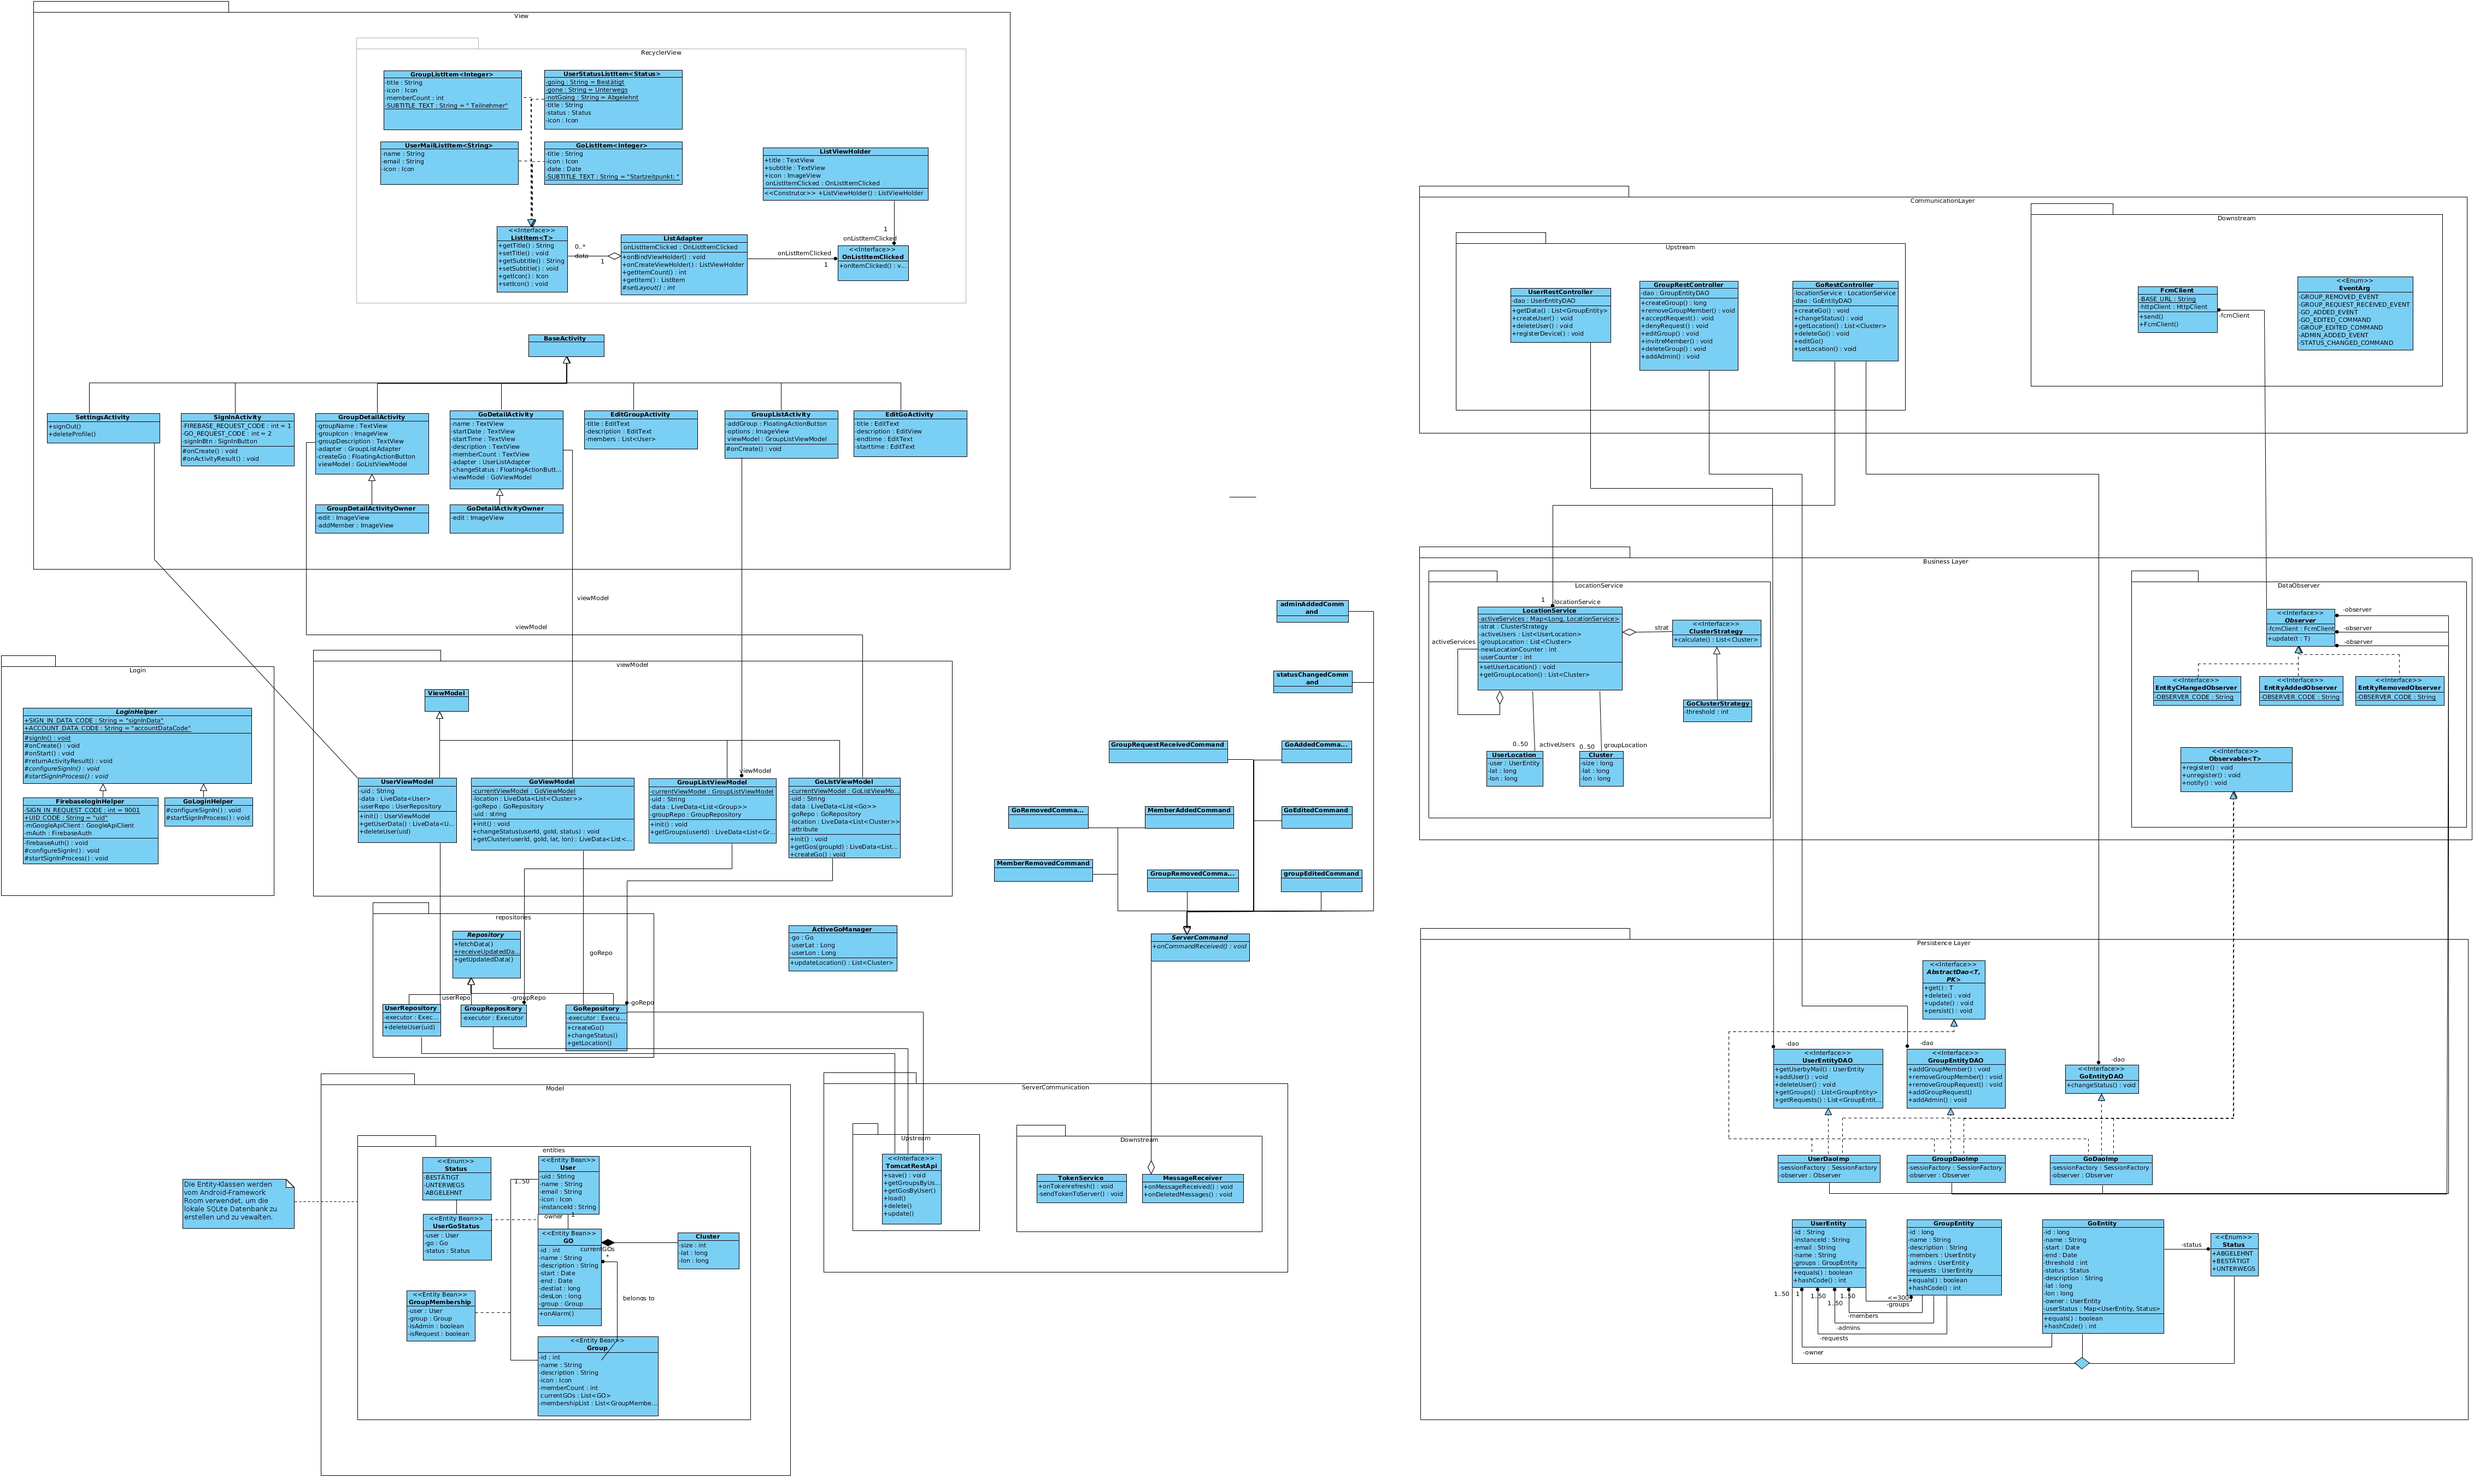
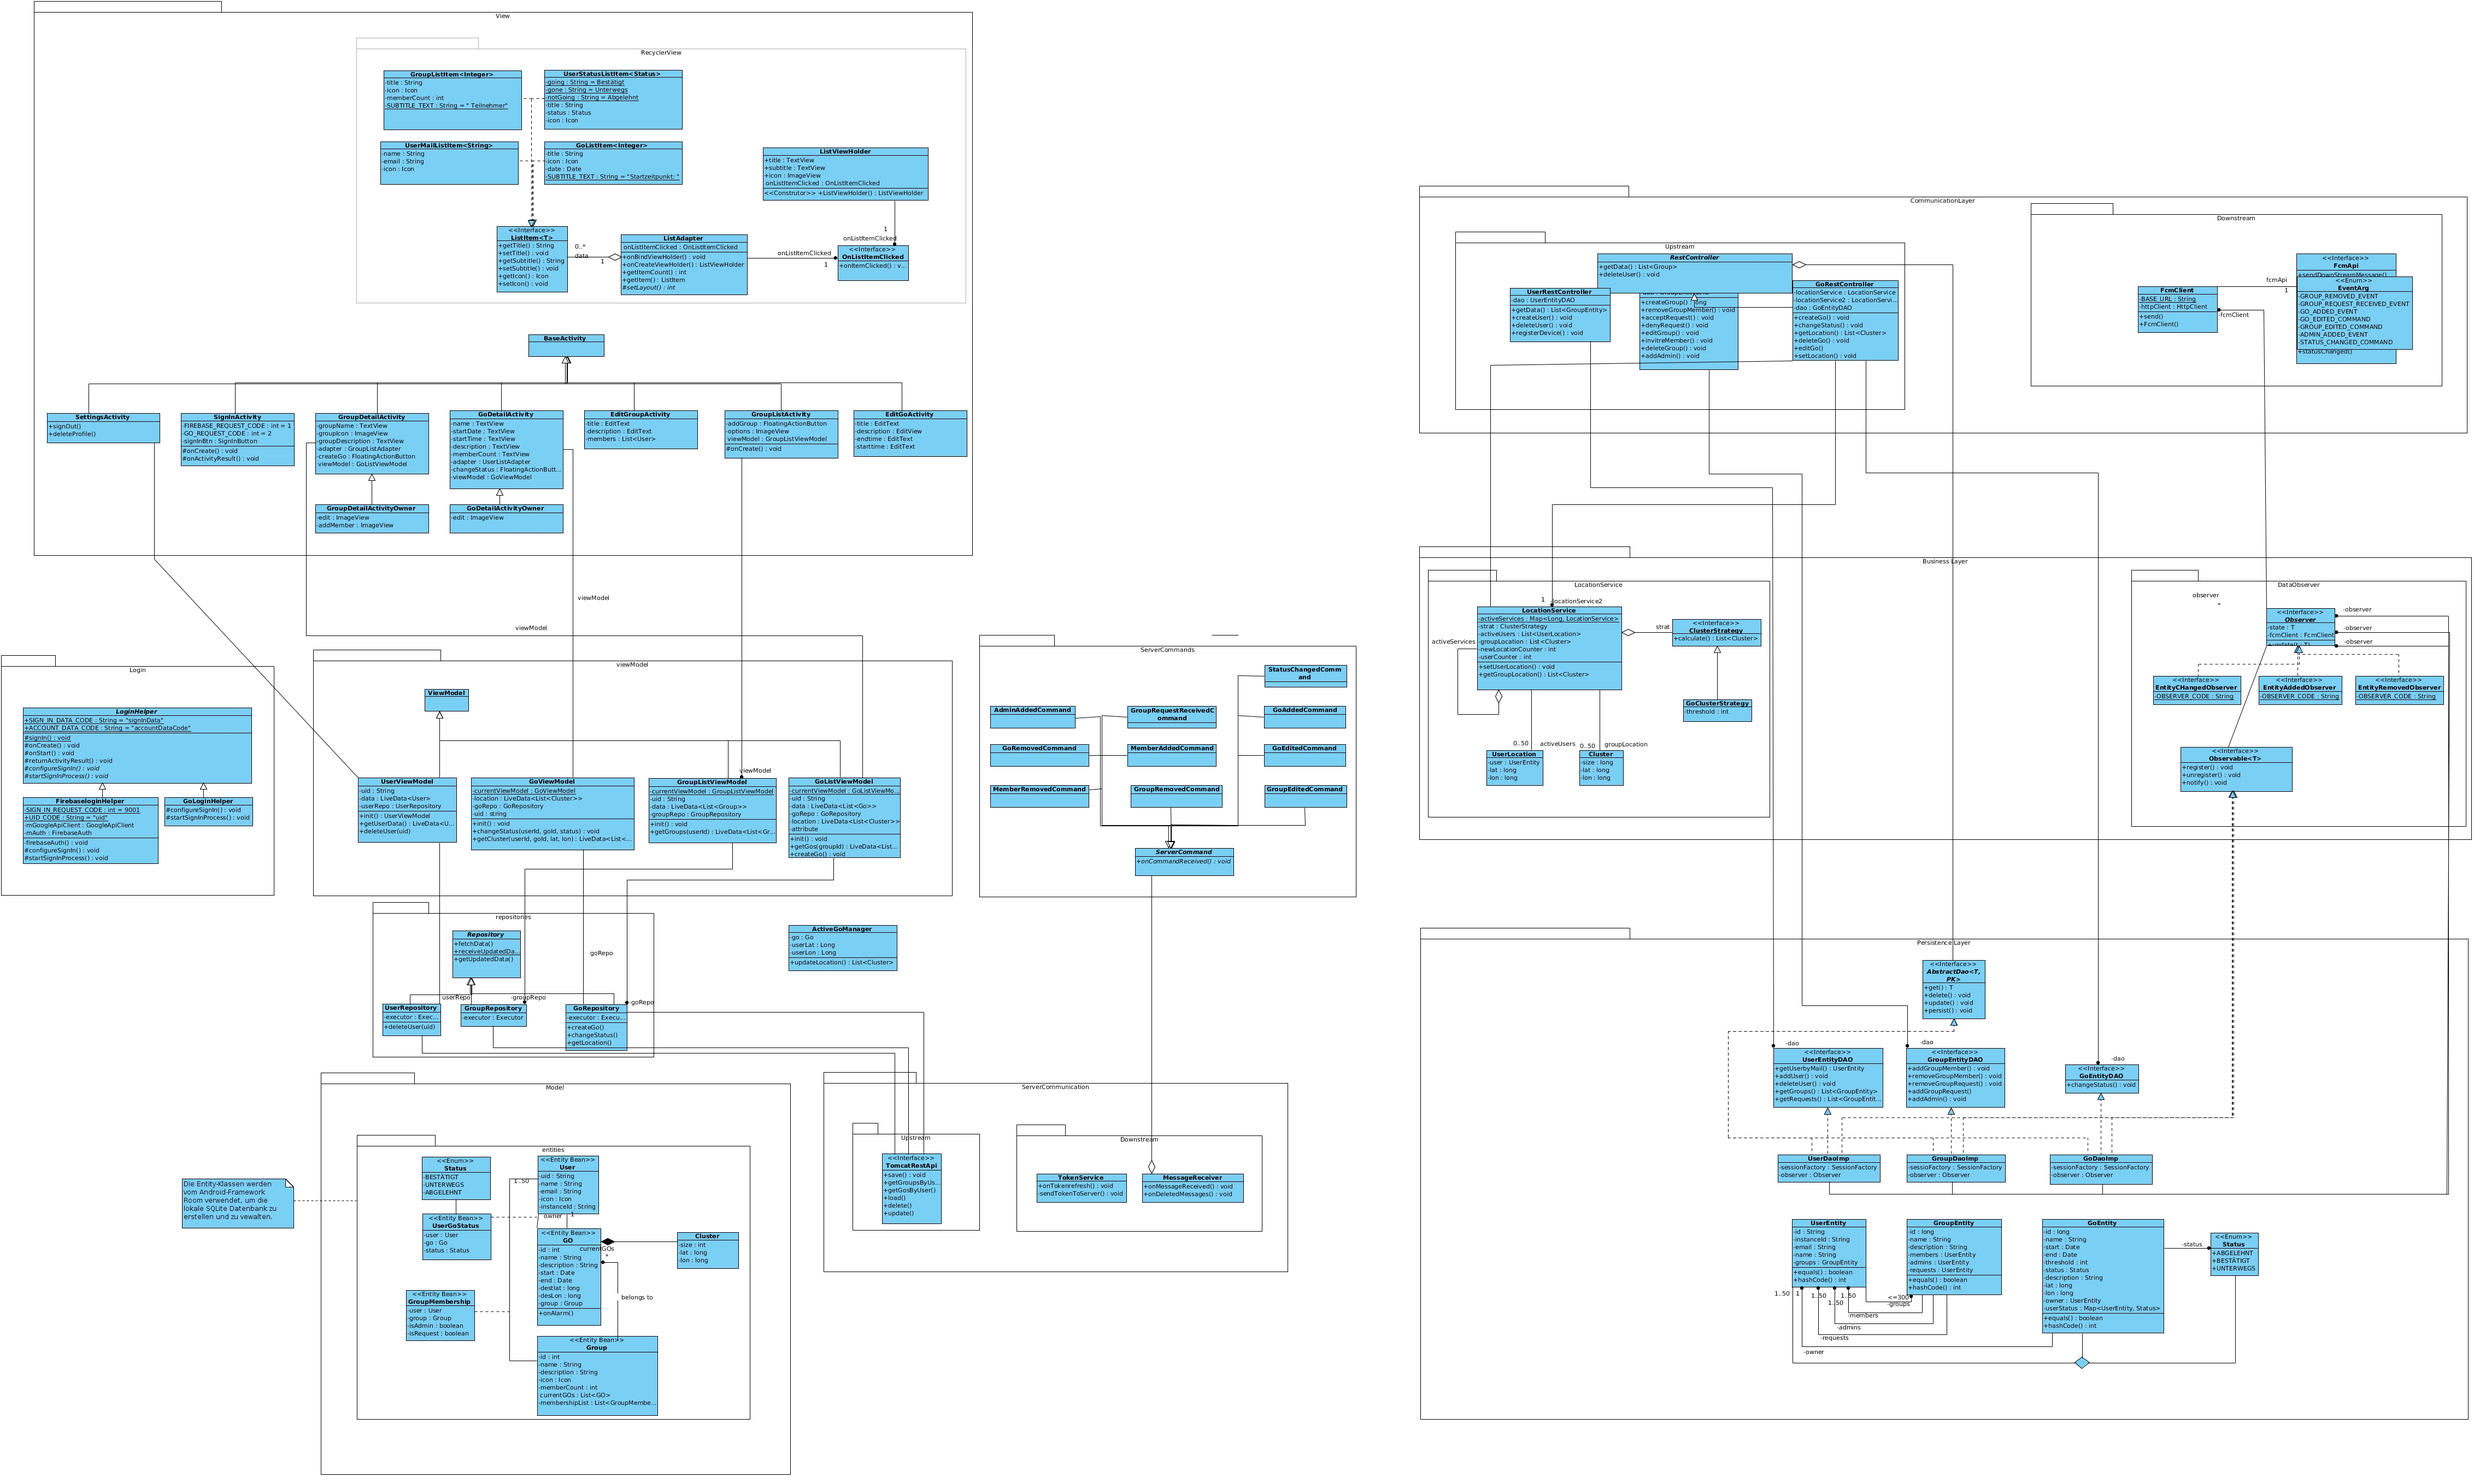
Diagramme Diagramme Diagramme

diff --git a/02_Entwurf/texdoclet_output/Entwurf.tex b/02_Entwurf/texdoclet_output/Entwurf.tex
@@ -1531,7 +1531,7 @@ public class GoDaoImp
 \subsubsection{Attribute}{
 \begin{verse}
 {{\bf private SessionFactory sessionFactory}} Eine Sessionfactory, die Sessions bereitstellt. Die Sessions werden benötigt, damit die Klasse direkt mit der Datenbank
-      kommunizieren kann und dort die Änderungen vornehmen. Das Attribut ist mit "@Autowired" annotiert, damit es automatisch
+      kommunizieren kann und dort die Änderungen vornehmen. Das Attribut ist mit '@Autowired' annotiert, damit es automatisch
      mit einem gültigen Objekt instanziiert wird.
      
       Auf dieses Feld darf nur innerhalb dieser Klasse zugegriffen werden. Nach der Instanzizerung ist diese Objekt unveränderbar und
@@ -4156,6 +4156,14 @@ Bei den Clients kommt die gesendete Nachricht als remoteMessage-Objekt an. Durch
 \end{figure}
 
 Bemerkung: Die Argumente der Funktionen wurden im Klassendiagramm zur besseren Übersichtlichkeit ausgelassen. Sie können den Klassenbeschreibungen entnommen werden.
+
+\section{Client}
+
+\begin{figure}[H]
+	\centering
+	\includegraphics[width=1\textwidth]{../Klassendiagramme/client.jpg}
+	\caption{Klassendiagramm der Serveranwendung}
+\end{figure}
 
 \section{Sequenzdiagramme}
 
